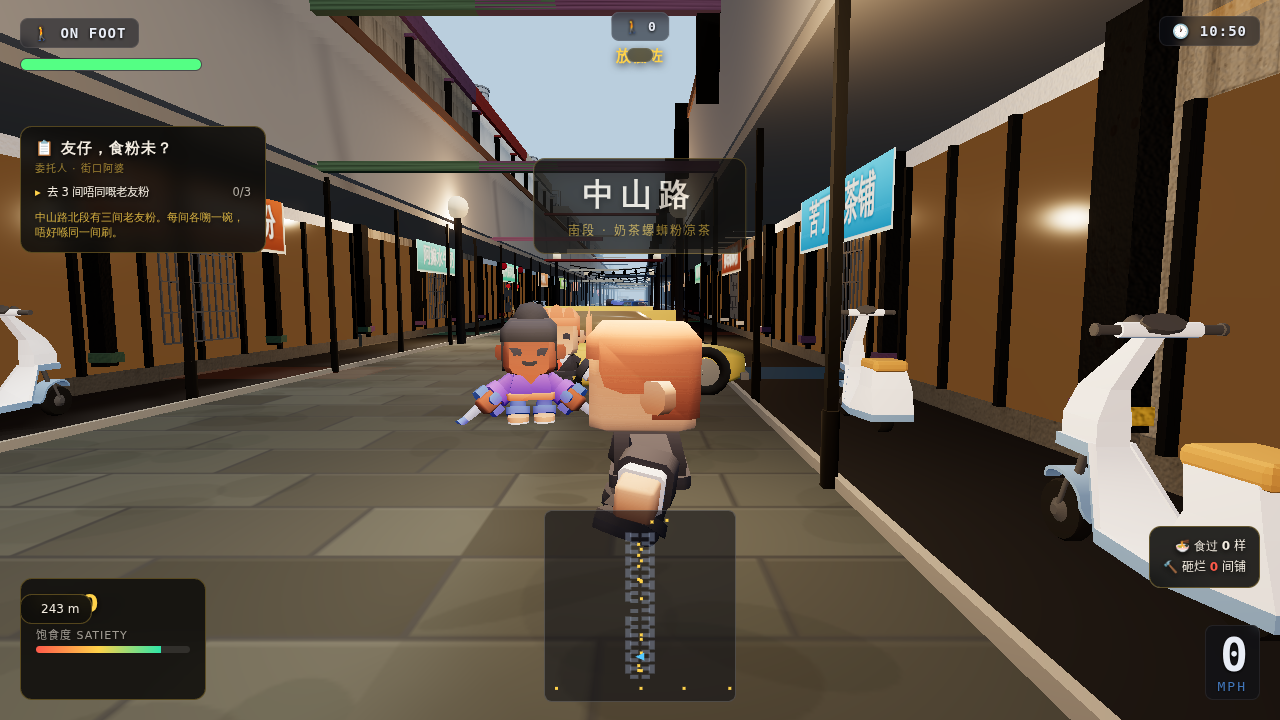
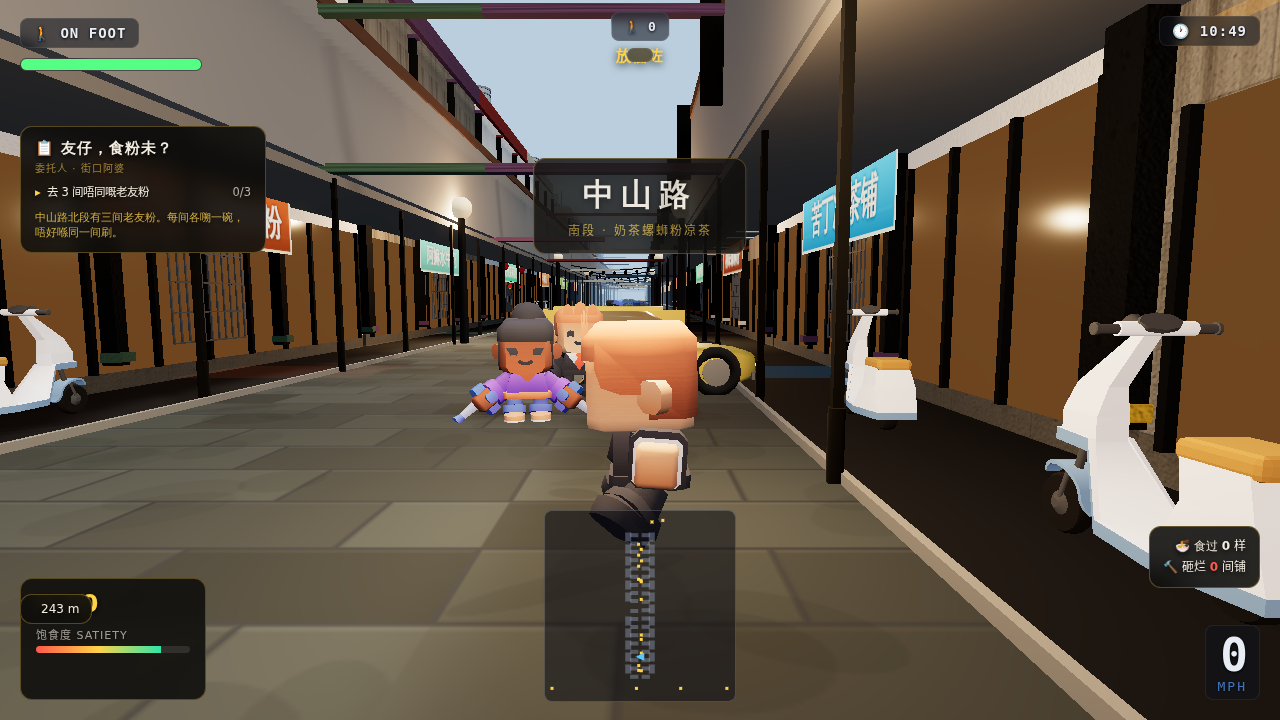
Shrink the carried person so the body fits on the shoulder line
A chibi is a metre of head on a metre of body. Carried at three-quarter
size the head still lands at shoulder height, and a head at shoulder
height is a head in the carrier's neck — which is what the last round
showed, boots over the carrier's scalp and the face buried in their
shoulder.

At half size the whole body is 0.8 m. It lies along the line of the
shoulders with the head out past one of them and the boots past the
other, and neither end is anywhere near the carrier's head.

The carried branch was also carrying four generations of comments on top
of each other; it is one block now.

tsc clean, 229 tests, build clean.

diff --git a/src/nanning/crowd.ts b/src/nanning/crowd.ts
@@ -456,34 +456,28 @@ export class Crowd {
    */
   private stepCombat(t: Talker, dt: number, px: number, pz: number, heading: number): void {
     if (t.combat === 'carried') {
-      // Over the shoulder, which is what picking somebody up means. It used
-      // to be held out in front at chest height, and in a picture it read as
-      // the player standing next to another person rather than carrying
-      // them.
+      // Carried over the shoulder, and there are three things that have to
+      // be true for it to read:
+      //
+      // 1. The model's origin is at its FEET. Put the origin where the body
+      //    is carried and you have put the feet on the carrier's head.
+      // 2. The body has to be tipped about the FORWARD axis. The model faces
+      //    +X after the yaw, so +X is forward and +Z is to the right; a tip
+      //    about Z only rolls the body and it ends up pointing straight
+      //    ahead of the carrier.
+      // 3. A chibi is a metre of head on a metre of body, so at any size
+      //    either the head or the boots end up at shoulder height — and a
+      //    head at shoulder height is a head in the carrier's neck. At half
+      //    size the whole body is 0.8 m: it lies along the shoulder line
+      //    with the head out past one shoulder and the boots past the other,
+      //    and neither end is near the carrier's head.
       const fx = Math.cos(heading);
       const fz = -Math.sin(heading);
-      // Smaller, and behind the shoulder rather than on top of it: a full
-      // size chibi is 1.64 m, so carried flat his boots end up buried in the
-      // carrier's neck. At three-quarter size, slung down the back, the
-      // boots hang behind the carrier and the head clears the shoulder.
-      t.group.scale.setScalar(0.72);
-      // The model's origin is at its FEET, and that is the whole difficulty.
-      // Put the origin where the body is carried and you have put the feet
-      // on the carrier's head; two rounds ago that is exactly what happened
-      // and the legs came up through their scalp.
-      //
-      // So the body lies across the line of the shoulders with the origin
-      // (the feet) well off to one side and the head out past the other
-      // shoulder. Neither end is anywhere near the carrier's head or neck.
-      // Which way is "across the shoulders"? The rider's model faces +X
-      // after the yaw, so +X is forward and +Z is to the right. Tipping the
-      // body about the FORWARD axis (X) swings it sideways onto the
-      // shoulders; tipping it about Z only rolls it, and the body ended up
-      // pointing straight ahead of the carrier instead of lying across them.
-      const rx = fz;
-      const rz = -fx;
-      t.group.position.set(px - rx * 0.45, 1.2, pz - rz * 0.45);
-      t.group.rotation.set(1.2, heading + 0.45, 0);
+      const leftX = fz;
+      const leftZ = -fx;
+      t.group.scale.setScalar(0.5);
+      t.group.position.set(px + leftX * 0.4, 1.15, pz + leftZ * 0.4);
+      t.group.rotation.set(1.45, heading, 0);
       t.x = t.group.position.x;
       t.z = t.group.position.z;
       return;

diff --git a/src/nanning/crowd.test.ts b/src/nanning/crowd.test.ts
@@ -79,8 +79,8 @@ describe('Crowd — street rules', () => {
     // The feet hang off to one side, so the head comes out past the other
     // shoulder and neither end is in the carrier's head.
     expect(t.group.position.x).toBeCloseTo(5, 1);
-    expect(t.group.position.y).toBeCloseTo(1.2, 2);
-    expect(t.group.scale.x).toBeCloseTo(0.72, 2);
+    expect(t.group.position.y).toBeCloseTo(1.15, 2);
+    expect(t.group.scale.x).toBeCloseTo(0.5, 2);
     // Tipped about the forward axis, so the body lies across the shoulders.
     expect(t.group.rotation.x).toBeGreaterThan(1.0);
     expect(t.group.rotation.z).toBeCloseTo(0, 2);
